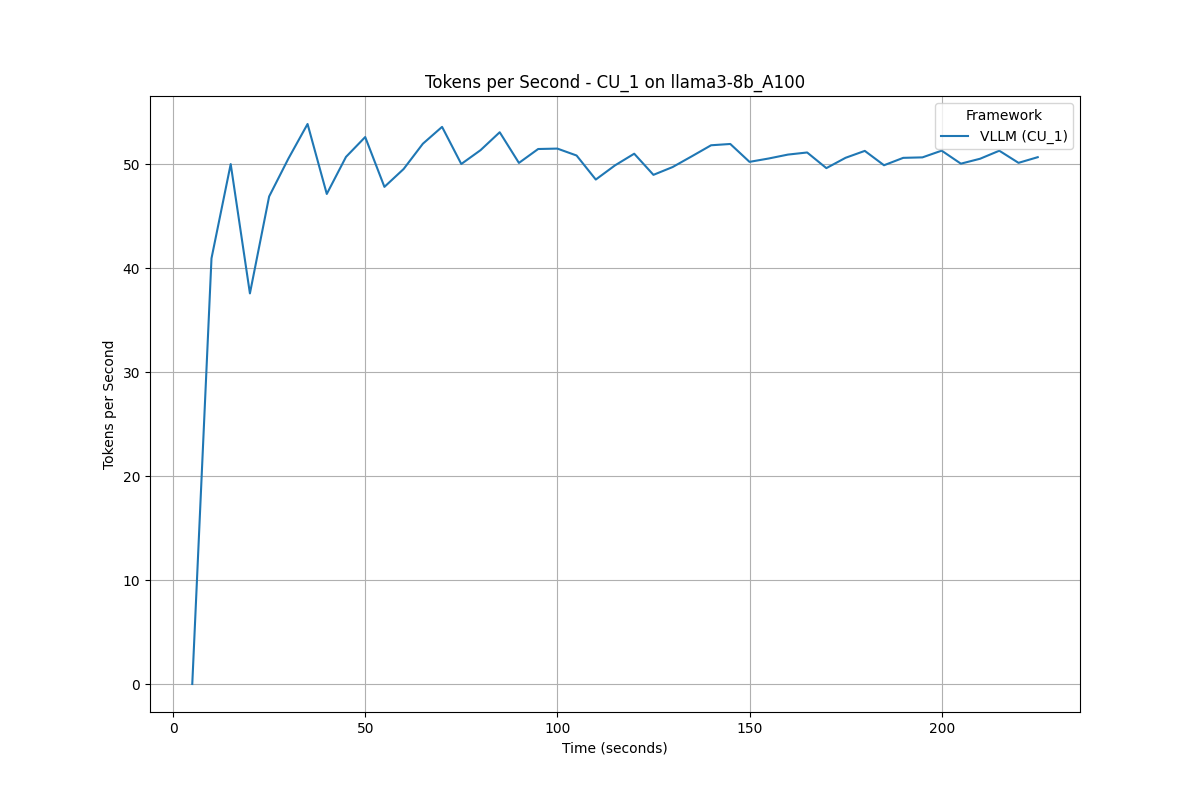
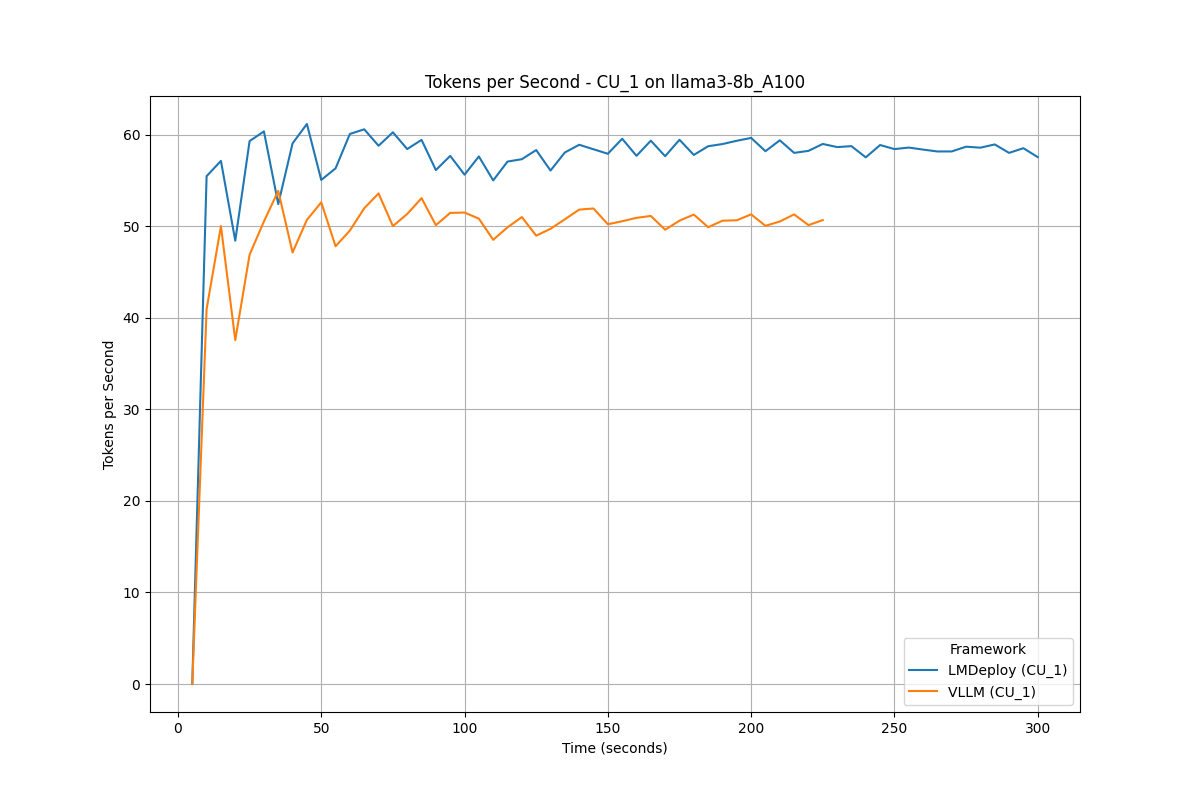
1

diff --git a/plot_graphs_v2.py b/plot_graphs_v2.py
@@ -1,0 +1,70 @@
+import os
+import pandas as pd
+import matplotlib.pyplot as plt
+import argparse
+
+def generate_framework_cu_plots(model_name_1, model_name_2):
+    directories = [os.path.join('metrics', model_name_1), os.path.join('metrics', model_name_2)]
+    output_directory = os.path.join('plots', f'{model_name_1}_vs_{model_name_2}')
+    os.makedirs(output_directory, exist_ok=True)
+
+    # Predefined CU levels
+    predefined_cus = ['CU_1', 'CU_5', 'CU_10', 'CU_50', 'CU_100']
+    data = {cu: {} for cu in predefined_cus}
+
+    # Process each directory
+    for directory in directories:
+        gpu_model = directory.split('/')[-1].split('_')[-1]  # Parse the GPU model from the directory name
+        if os.path.exists(directory):
+            for filename in os.listdir(directory):
+                if filename.endswith('.xlsx'):
+                    parts = filename.split('_')
+                    framework = parts[2]
+                    key = f'{framework} ({gpu_model})'  # Formatted key for each framework-GPU combination
+
+                    filepath = os.path.join(directory, filename)
+
+                    # Read each sheet corresponding to a CU
+                    for cu in predefined_cus:
+                        if cu in data:
+                            try:
+                                df = pd.read_excel(filepath, sheet_name=cu)
+                                if key not in data[cu]:
+                                    data[cu][key] = []
+                                data[cu][key].append(df)
+                            except ValueError:
+                                print(f"Warning: Sheet '{cu}' not found in file: {filename}")
+                                continue
+
+    # Generate plots for each CU
+    for cu, frameworks in data.items():
+        plt.figure(figsize=(12, 8))
+        for key, dfs in frameworks.items():
+            for df in dfs:
+                plt.plot(df['Time (seconds)'], df['Tokens per Second'], label=key)
+
+        plt.title(f'Llama 3 8B total tokens per Second - {cu} Comparison')
+        plt.xlabel('Time (seconds)')
+        plt.ylabel('Tokens per Second')
+        plt.legend(title="Framework & GPU")
+        plt.grid(True)
+
+        output_filepath = os.path.join(output_directory, f'{cu}_comparison.png')
+        plt.savefig(output_filepath)
+        plt.close()
+        print(f"Plot saved: {output_filepath}")
+
+    if not any(frameworks for frameworks in data.values()):
+        print("No data to plot.")
+
+def main():
+    parser = argparse.ArgumentParser(description='Generate performance comparison plots for each CU level across two GPUs and frameworks.')
+    parser.add_argument('model_name_1', type=str, help='First directory name under "metrics" containing the data files.')
+    parser.add_argument('model_name_2', type=str, help='Second directory name under "metrics" containing the data files.')
+
+    args = parser.parse_args()
+    
+    generate_framework_cu_plots(args.model_name_1, args.model_name_2)
+
+if __name__ == '__main__':
+    main()
